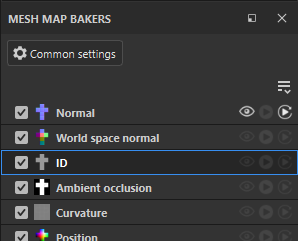
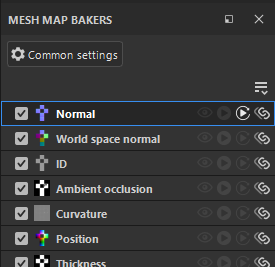
Adding images + updating with changelog

diff --git a/help/release-notes/beta.md b/help/release-notes/beta.md
@@ -14,17 +14,21 @@ Release date: **26 March 2026**
 
 ## New baking features
 
-### Paint skew correction when baking
+![alt text](<../assets/12.1.0 baking - promotional.jpeg>)
 
-New Skew correction options are available when in Baking mode that allow you to directly fix distortion problems when baking.
+Enable automatic rebaking to save time while tweaking baking parameters.
 
-![alt text](<../assets/12.1.0 skew painting - comparison.png>)
+### Fix distortion with a skew correction map
+
+New Skew correction options are available when in Baking mode that allow you to directly fix distortion.
+
+![alt text](<../assets/12.1.0 skew painting - promotional.jpg>)
 
 With Cage set to **Distance-based**, under Skew correction, select **Paint skew correction** to start painting on your low-poly mesh.
 
-![alt text](<../assets/12.1.0 skew painting - enter painting mode.png>){width="300"}
+![alt text](<../assets/12.1.0 skew painting - enter painting mode.png>)
 
-While in skew painting mode, you can paint on the surface of your mesh to control how the surface normals impact the bake. 
+While in skew painting mode, you can paint on the surface of your mesh to control the direction of surface normals for baking.
 
 >[!NOTE]
 >
@@ -32,31 +36,60 @@ While in skew painting mode, you can paint on the surface of your mesh to contro
 
 Turn on **Edge protection** to ensure the baker still projects high-poly softness onto low-poly hard edges. You can adjust the **Edge distance** and **Edge contrast** for finer control over the edge protection.
 
+![alt text](<../assets/12.1.0 skew painting - comparison.png>)
+Above, the mesh on the left displays visible distortion due to surface normal misalignment near hard edges. The same mesh on the right with a painted skew map shows no more distortion, and normals are perpendicular to the surface, except near the edges thanks to edge protection.
+
 ### Updated Mesh map bakers panel
 
 Instead of appearing like another channel, **Common settings** now has a dedicated button.
 
 Additionally, new controls are available next to each channel so you can:
 
-1. View the map in the viewport.
-1. Rebake the map.
+1. View the channel in the viewport.
+1. Rebake the channel.
 1. Toggle auto-rebake for the channel.
-1. Sync settings (available when the project has multiple texturesets).
+1. Sync settings across texture sets for the channel.
 
 ![alt text](<../assets/12.1.0 baking - mesh map bakers.png>)
 
 ## OpenPBR support
 
-Use the new industry standard for your projects. Import shader settings and textures from other apps and export your work witht he USD format to preserve material consistency throughout your workflow.
+Use the new industry standard for your projects. Import shader settings and textures from other apps and export your work with the USD format to ensure material consistency across your workflow.
 
-* new post processing = improved visuals in viewport
-* matching visuals across multiple OpenPBR applications
-* USD for portability
+![alt text](<../assets/12.1.0 OpenPBR.jpeg>)
+
+You can find the new OpenPBR shader in the **Shader settings panel**. Painter still defaults to the **Adobe Standard Material - PBR Metallic Roughness** shader.
 
 ## Automatic unwrapping for hard surface models
 
-Hard-surface has been added as an Unwrap mode when using Auto-Unwrap. 
+Hard-surface has been added as an optional **Unwrap mode** when using Auto-Unwrap. With hard surface mode selected, the unwrapper focuses on minimizing distortion of UV islands and creating an orthographically aligned UV map.  
 
-With hard-surface mode selected, the unwrapper focuses on minimizing distortion of UV islands, and creating an orthographically aligned UV map. 
+![alt text](<../assets/12.1.0 auto unwrap - example.png>)
 
 [image]
+
+## Changelog
+
+Release date: 2026/03/09
+
+### Added
+
+* [Skew baking] Skew Painting Tools
+* [Skew baking] Change Polygon Fill behaviour to work on first channel of the current stack instead of basecolor or mask only
+* [Skew Baking] Add Skew Preview shader and Skew Direction Vector visuals when painting skew map
+* [Auto Unwrap] Integrate Hard Surface option
+* [OpenPBR] Add support for OpenPBR 1.1
+* [Substance] Add new "mesh_hard_edges" engine map input
+* [Substance] Add new "mesh_hard_edges_triangle" engine map input
+* [UI] Add warning in the viewport when trying to paint on another Texture Set
+
+
+### Fixed
+
+* [Crash] [Baking] crash when .assbin file can't be written in folder
+* [Crash] Saving with insufficient disk space can crash or corrupt projects
+* [UI] Updated ID map color source tooltip
+* [Stencil] Preview has lower resolution than painted result
+* [Display] Shadows appear inverted
+
+
